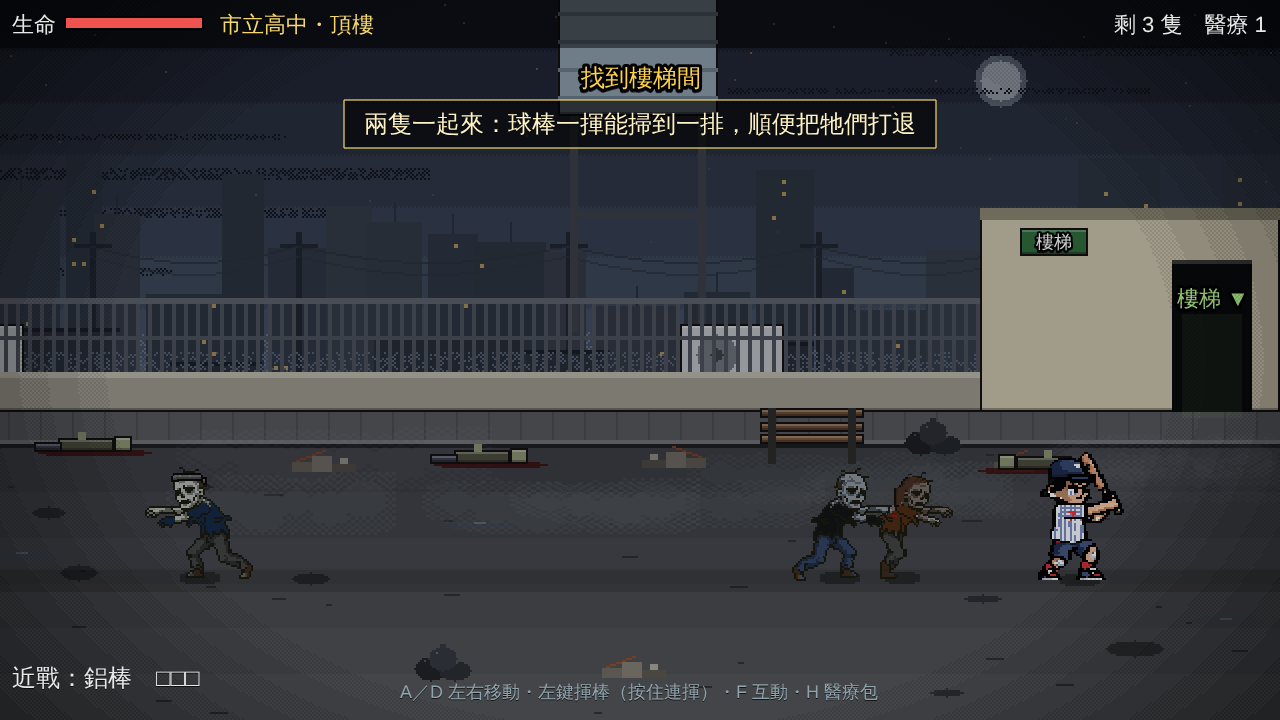
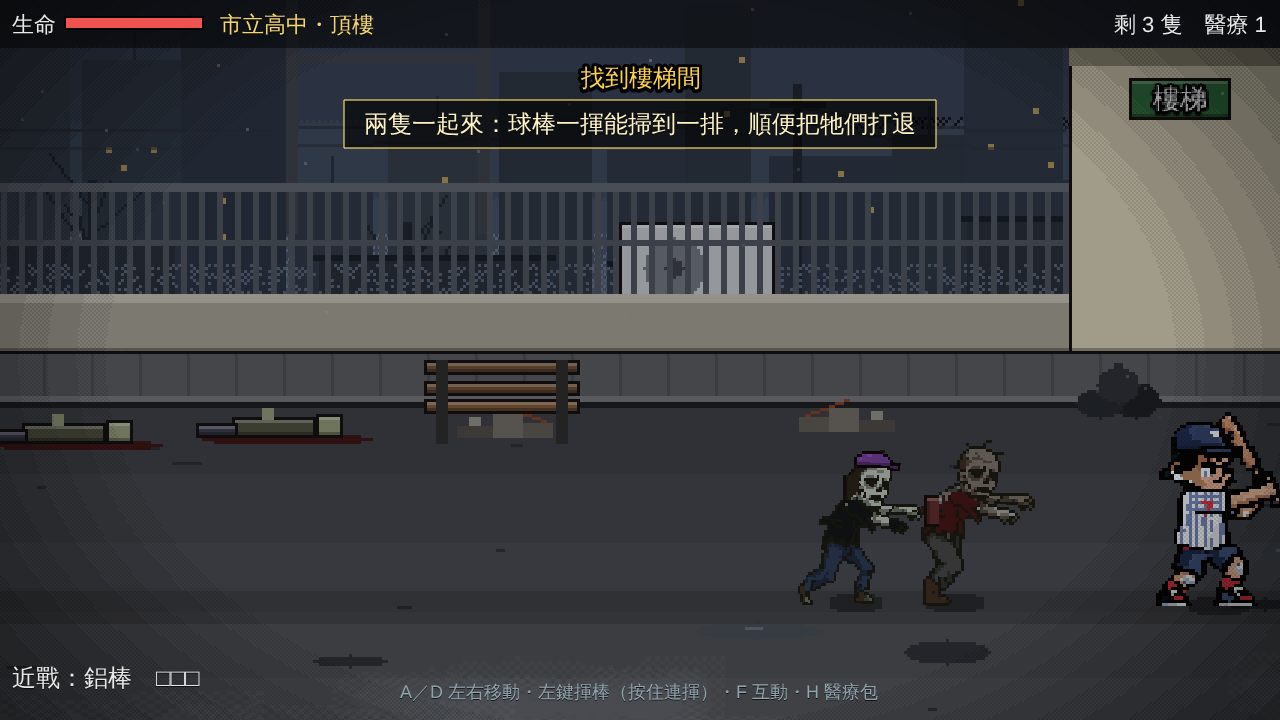
單軸模式鏡頭拉近 1.5 倍，人和場景放大
- RenderScale 的左上角縮放改成讀 cam.zoom，新增 setViewZoom
- ExploreFieldScene 單軸時主鏡頭拉近、畫面中心上移；HUD 另用不縮放的鏡頭畫
- 樓層字改漆在牆裙上

Claude-Session: https://claude.ai/code/session_01QYS9QHisMAqki286SafPiz

diff --git a/src/scenes/ExploreFieldScene.ts b/src/scenes/ExploreFieldScene.ts
@@ -38,6 +38,7 @@ import { PropSystem, type Interaction } from '../scenery/PropSystem';
 import { fieldScenery } from '../scenery/locations';
 import type { PlacedProp, SceneryResult } from '../scenery/SceneryBuilder';
 import type { PrologueStage, StageHint } from '../data/prologue';
+import { applyHiRes, setViewZoom } from '../render/RenderScale';
 
 export interface FieldResult {
   /** clean：潛入全程沒被發現；win：達成目標；failed：保護目標陣亡；down：主角倒下 */
@@ -55,6 +56,12 @@ export interface ExploreFieldData {
 }
 
 const FIELD_W = 960;
+/** 單軸模式鏡頭拉近的倍率：上下不留大片空白，人和場景放大 */
+const SINGLE_ZOOM = 1.5;
+/** 單軸模式畫面中心的 y（世界座標）：上緣切在天花板下、下緣留一點地板 */
+const SINGLE_VIEW_CY = 208;
+/** HUD、提示、畫面邊緣特效：畫在不拉近的鏡頭上（scrollFactor 0 且 depth ≥ 這個值） */
+const UI_DEPTH = 85;
 /** 潛入：霧屍基本視野 */
 const VISION = 120;
 const VISION_DY = 30;
@@ -102,6 +109,8 @@ export class ExploreFieldScene extends Phaser.Scene {
   private hintText?: Phaser.GameObjects.Text;
   private hintBg?: Phaser.GameObjects.Rectangle;
   private hintsShown = new Set<StageHint>();
+  /** 單軸模式：主鏡頭拉近，HUD 改由這個不縮放的鏡頭畫 */
+  private uiCam?: Phaser.Cameras.Scene2D.Camera;
   private hintTimer = 0;
   /** 關卡寬度與出口位置（沿街前進比較長） */
   private worldW = FIELD_W;
@@ -203,8 +212,19 @@ export class ExploreFieldScene extends Phaser.Scene {
     this.rig = new WeaponRig(this, heroRigColors(GameState.data.hero ?? 'soldier'));
     this.rig.setWeapon(GameState.data.armory.loadout[0] ?? 'm1911');
     const cam = this.cameras.main;
-    cam.startFollow(this.player.sprite, true, 0.12, 0);
-    cam.setDeadzone(140, GAME_HEIGHT);
+    this.uiCam = undefined;
+    if (this.single) {
+      // 單軸：大家都在同一條線上，上下的空間用不到，鏡頭拉近讓人和場景放大
+      setViewZoom(cam, SINGLE_ZOOM);
+      cam.startFollow(this.player.sprite, true, 0.12, 1, 0, SINGLE_LANE_Y - SINGLE_VIEW_CY);
+      cam.setDeadzone(100, 0);
+      this.uiCam = this.cameras.add(0, 0, cam.width, cam.height);
+      applyHiRes(this.uiCam);
+      this.uiCam.fadeIn(250, 0, 0, 0);
+    } else {
+      cam.startFollow(this.player.sprite, true, 0.12, 0);
+      cam.setDeadzone(140, GAME_HEIGHT);
+    }
     cam.fadeIn(250, 0, 0, 0);
 
     const armory = GameState.data.armory;
@@ -250,6 +270,7 @@ export class ExploreFieldScene extends Phaser.Scene {
     }
     this.buildHud();
     this.fireHints((w) => w === 'start');
+    this.splitCameras();
 
     this.input.keyboard?.on('keydown-H', this.medkit, this);
     this.input.keyboard?.on('keydown-F', this.interact, this);
@@ -280,7 +301,8 @@ export class ExploreFieldScene extends Phaser.Scene {
     }
     // 序章：牆上漆著樓層的大字
     if (this.stage && this.stage.id !== 'roof') {
-      pixelText(this, 200, GROUND_Y - 96, this.stage.floor, 14, '#2a3a30').setOrigin(0.5).setDepth(-50).setAlpha(0.7);
+      // 漆在綠色牆裙上（鏡頭拉近後上方會被 HUD 擋住）
+      pixelText(this, 190, GROUND_Y - 17, this.stage.floor, 14, '#d8d0b8').setOrigin(0.5).setDepth(-50).setAlpha(0.6);
     }
   }
 
@@ -951,7 +973,20 @@ export class ExploreFieldScene extends Phaser.Scene {
     }
     this.refreshHud();
     this.updateHints(realDt);
+    this.splitCameras();
     this.checkEnd();
+  }
+
+  /** 單軸模式：HUD 類物件只給不縮放的鏡頭畫，其他（世界、背景、霧）只給拉近的主鏡頭畫 */
+  private splitCameras(): void {
+    const ui = this.uiCam;
+    if (!ui) return;
+    const main = this.cameras.main;
+    for (const o of this.children.list) {
+      const g = o as Phaser.GameObjects.GameObject & { scrollFactorX?: number; depth?: number };
+      const isUi = g.scrollFactorX === 0 && (g.depth ?? 0) >= UI_DEPTH;
+      g.cameraFilter = isUi ? main.id : ui.id;
+    }
   }
 
   private context(): ZombieContext {
@@ -1121,6 +1156,7 @@ export class ExploreFieldScene extends Phaser.Scene {
     // 限時目標達成時，場上的霧屍退回霧裡
     for (const z of this.zombies) this.tweens.add({ targets: z, alpha: 0, duration: 600 });
     this.time.delayedCall(1300, () => {
+      this.uiCam?.fadeOut(250, 0, 0, 0);
       this.cameras.main.fadeOut(250, 0, 0, 0);
       this.cameras.main.once(Phaser.Cameras.Scene2D.Events.FADE_OUT_COMPLETE, () => {
         const cb = this.onDone;

diff --git a/src/render/RenderScale.ts b/src/render/RenderScale.ts
@@ -49,12 +49,12 @@ export function applyHiRes(cam: Phaser.Cameras.Scene2D.Camera): void {
   const c = cam as HiResCamera;
   if (c.__hiRes) return;
   c.__hiRes = true;
-  const z = RENDER_SCALE;
-  cam.setZoom(z);
+  cam.setZoom(RENDER_SCALE);
 
   // Phaser 版的 scroll（以中心縮放）＝ 對外的 scroll（左上角）－ shift
-  const shiftX = () => (cam.width / 2) * (1 - 1 / z);
-  const shiftY = () => (cam.height / 2) * (1 - 1 / z);
+  // 倍率每幀讀 cam.zoom：單軸模式會再拉近（setViewZoom），一樣以左上角為縮放中心
+  const shiftX = () => (cam.width / 2) * (1 - 1 / cam.zoom);
+  const shiftY = () => (cam.height / 2) * (1 - 1 / cam.zoom);
   let innerX = cam.scrollX - shiftX();
   let innerY = cam.scrollY - shiftY();
   let outerX = cam.scrollX;
@@ -72,9 +72,17 @@ export function applyHiRes(cam: Phaser.Cameras.Scene2D.Camera): void {
     outerY = cam.scrollY = innerY + shiftY();
     // 原本的矩陣是 T(origin)·S(z)·T(-origin)·震動；改成 S(z)·震動（以左上角為縮放中心）
     const m = (cam as unknown as CamMatrix).matrix;
-    m.e += (cam.width / 2) * (z - 1);
-    m.f += (cam.height / 2) * (z - 1);
+    m.e += (cam.width / 2) * (cam.zoom - 1);
+    m.f += (cam.height / 2) * (cam.zoom - 1);
   };
+}
+
+/**
+ * 鏡頭再拉近 k 倍（1 = 原本的 640×360 視野）。看到的世界範圍變成 640/k × 360/k，
+ * scrollX/scrollY 仍是畫面左上角的世界座標。HUD 要另外放在沒有拉近的鏡頭上。
+ */
+export function setViewZoom(cam: Phaser.Cameras.Scene2D.Camera, k: number): void {
+  cam.setZoom(RENDER_SCALE * k);
 }
 
 /**

diff --git a/docs/PROLOGUE.md b/docs/PROLOGUE.md
@@ -7,7 +7,7 @@
 
 ## 五層樓
 
-全程單軸（只能左右走）、只能近戰（阿凱只有球棒）。每層都從滿血開始，倒下就重來那一層，序章不會 Game Over。
+全程單軸（只能左右走）、只能近戰（阿凱只有球棒）。單軸模式的鏡頭會拉近 1.5 倍（上下不留大片空白，人和場景放大），HUD 畫在另一個不縮放的鏡頭上；沿街前進等所有單軸關卡都一樣。每層都從滿血開始，倒下就重來那一層，序章不會 Game Over。
 
 | 樓層 | 玩法 | 教什麼 | 過關 |
 |---|---|---|---|
